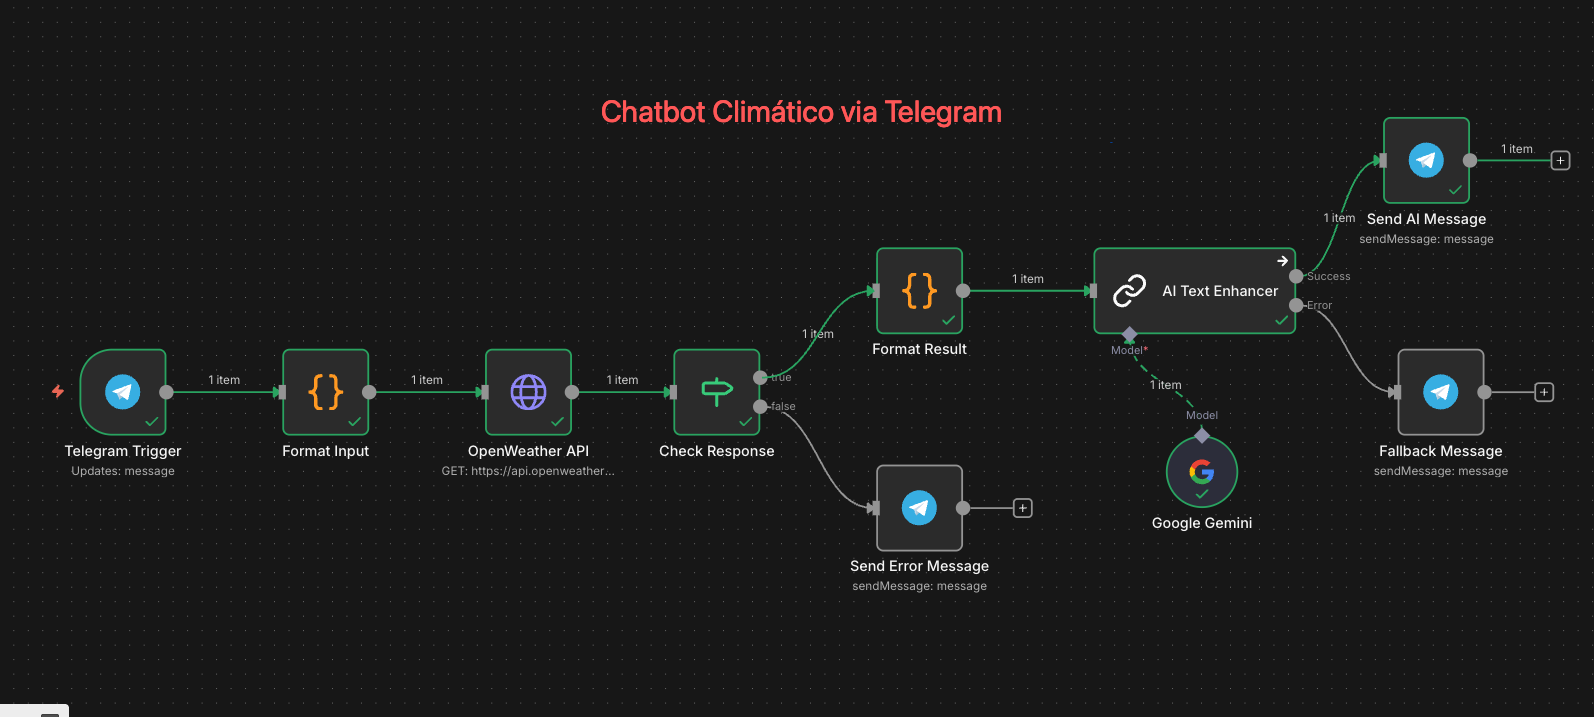
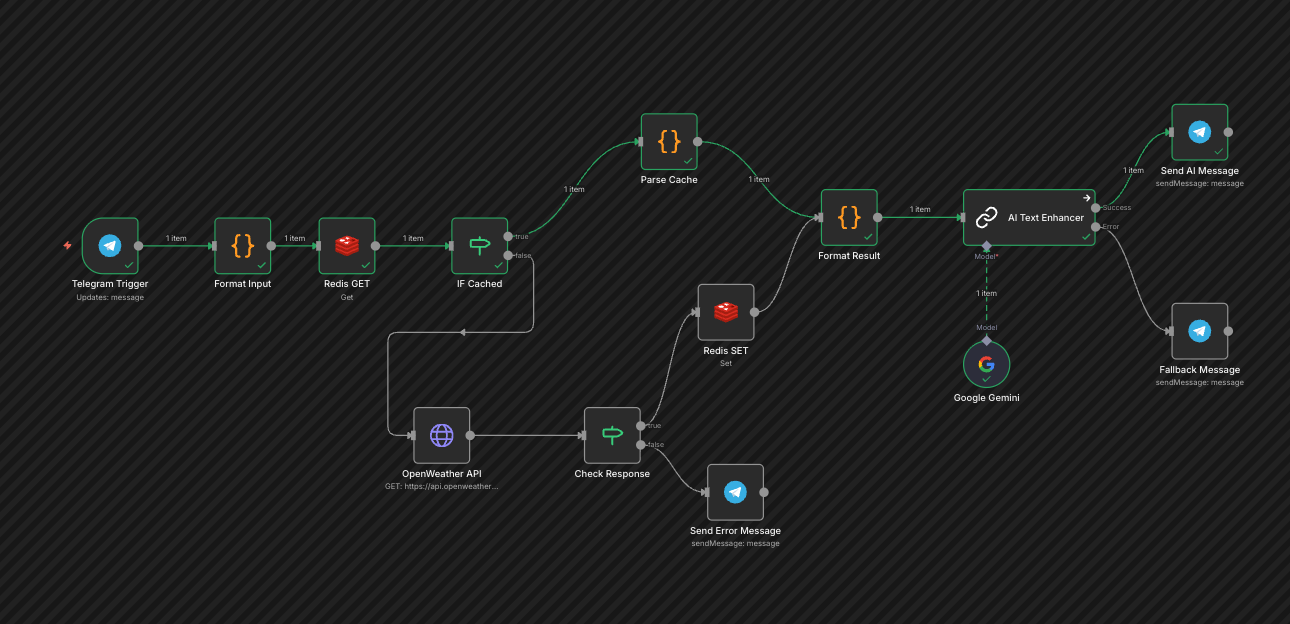
Adiciona cache, melhora documentação e incluir exemplo de uso para variaveis de ambiente

diff --git a/README.md b/README.md
@@ -1,3 +1,4 @@
+# Chatbot de Clima do Telegram 🌦
 
 ![diagram.png](diagram.png)
 
@@ -48,6 +49,46 @@ Esse passo foi configurado usando uma Corrente Básica de IA (Basic LLM Chain) c
 1. Crie ou recupere sua chave de API gratuitamente em `aistudio.google.com/app/apikey`.
 2. No n8n acesse: **Credentials > Add Credential**, busque por **Google Gemini API** e insira a chave gerada.
 3. Feito isso, conecte a credencial criada no nó **Google Gemini** (que atua como cérebro conectado ao nó principal "AI Text Enhancer").
+
+## 📦 Configuração do Cache (Redis)
+
+O projeto conta com um sistema de cache no fluxo para aliviar o número de requisições na API do OpenWeather, armazenando temporariamente os dados climáticos pesquisados. 
+Para sua comodidade, a credencial de conexão ao Redis já vem **previamente configurada** no arquivo `docker-compose.yml` e nos nós importados (utilizando o *host* da rede Docker local). Não é necessária configuração manual adicional se você estiver implantando os containers pelo *Compose* nativo do repositório.
+
+## 📄 Variáveis de Ambiente (`.env-example`)
+
+O projeto inclui um arquivo `.env-example` que serve como dicionário de referência para as ferramentas Docker, túneis e n8n. Abaixo detalhamos a função de cada chave:
+
+| Variável | Descrição |
+| :--- | :--- |
+| `N8N_ENCRYPTION_KEY` | Chave de segurança para criptografar as credenciais sensíveis dentro do banco de dados do n8n. |
+| `NGROK_AUTH_TOKEN` | Token do Ngrok para criar túneis que expõem o n8n para a internet (útil para registrar webhooks do Telegram). |
+| `WEBHOOK_URL` | A URL pública base do seu servidor n8n (fornecida pelo provedor de túnel ou seu domínio). Ex: `https://meu-n8n.ngrok.app`. |
+| `CLOUDFLARE_TUNNEL_TOKEN` | Token do seu Cloudflare Tunnel para realizar a rota de exposição segura (se utilizar o cloudflared). |
+| `N8N_API_KEY` | Chave de API estática do n8n (usada pelo serviço local MCP ou acesso programático). |
+| `N8N_HOST` | O endereço base do host local do servidor n8n (padrão: `http://localhost:5678/`). |
+| `OPENWEATHER_API_KEY` | Sua chave de segurança na API do OpenWeather, caso queira passar por variáveis. |
+| `TELEGRAM_BOT_TOKEN` | O token de autenticação bot gerado pelo BotFather do Telegram, caso queira passar por variáveis. |
+
+## 🛠 Troubleshooting (Solução de Problemas)
+
+Abaixo listamos os erros mais comuns reportados no setup e uso da aplicação e as devidas resoluções:
+
+**1. O Bot não responde a nenhuma mensagem**
+*   **Motivo:** Workflow inativo ou o gatilho (Trigger) do Telegram sem credencial selecionada.
+*   **Solução:** Confirme se a credencial do Telegram que você criou foi selecionada nos 3 nós do Telegram. Na parte superior do Workflow, mova também o botão deslizante para **"Active"**. 
+
+**2. Erro de autenticação contínua no OpenWeather (`401 Unauthorized`)**
+*   **Motivo:** A credencial foi configurada de maneira errada ou acabou de ser gerada.
+*   **Solução:** Se a chave é nova, aguarde de 10 a 30 minutos, pois o OpenWeather possui um delay de reindexação. Verifique também em "Query Auth" se utilizou a estrutura: **Name:** `appid` / **Value:** `SuaKey`.
+
+**3. Falha de Conexão nos Nós do Redis (Node Execute Error)**
+*   **Motivo:** O *container* do banco de dados Redis não subiu na infraestrutura do Docker.
+*   **Solução:** Verifique no terminal ou app *Docker Desktop* se o container contendo a imagem do `redis` está no status "Running". Reinicie os serviços usando `docker-compose up -d`.
+
+**4. A inteligência do Gemini nunca responde, apenas as respostas estáticas**
+*   **Motivo:** O nó de chat do Google Gemini falhou em autenticar via API.
+*   **Solução:** Certifique-se de que criou sua API no AI Studio e selecionou corretamente a nova credencial no nó secundário rotulado com "Google Gemini Chat Model".
 
 ## ✅ Testando e Executando o Chatbot
 
